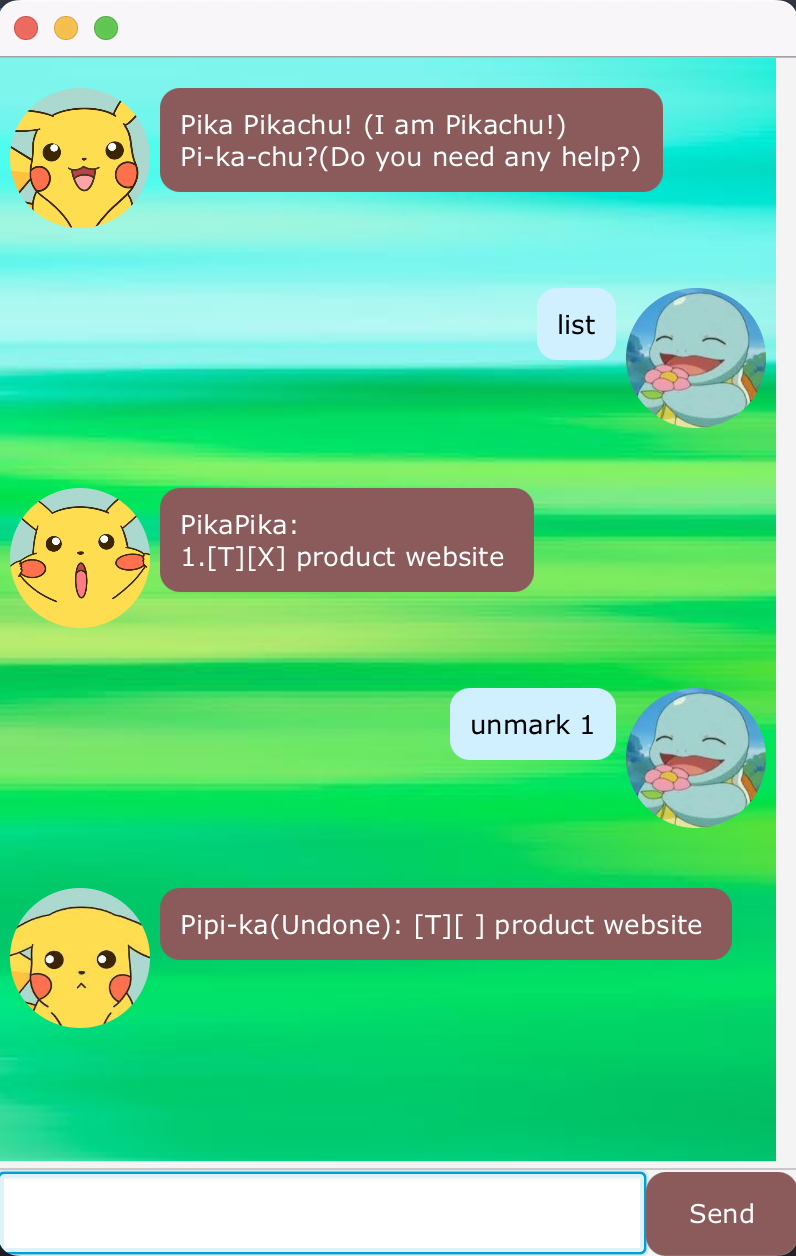
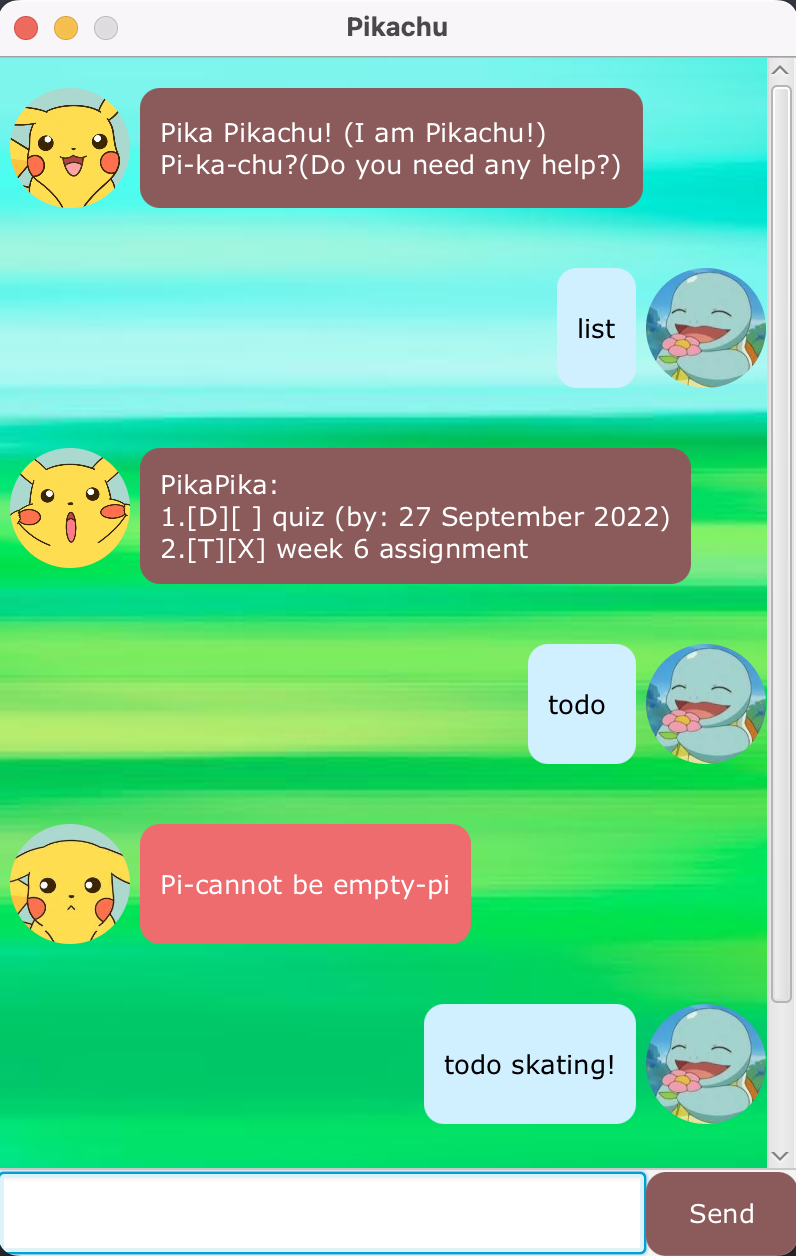
fix bugs and modify GUI

diff --git a/src/main/java/pikachu/command/AddCommand.java b/src/main/java/pikachu/command/AddCommand.java
@@ -47,7 +47,7 @@ public class AddCommand extends Command {
                 LocalDate date = LocalDate.parse(temp2[1]);
                 Deadline newDdl = new Deadline(temp2[0], date);
                 if (isDuplicate(newDdl, taskList)) {
-                    return "Duplicate task pi!";
+                    throw new PikachuException("Duplicate task pi!");
                 }
                 tasks.getTaskList().add(newDdl);
 
@@ -57,7 +57,7 @@ public class AddCommand extends Command {
                 tempStr += "Pikaaaaa: " + tasks.getTaskList().size()
                         + (tasks.getTaskList().size() > 1 ? " tasks" : " task");
             } catch (Exception e) {
-                throw new PikachuException("Need valid date format(yyyy-mm-dd) Pikaaaa");
+                throw new PikachuException("Need valid date format(yyyy-mm-dd) OR Duplicate task Pikaaaa");
             }
         } else if (isValidTodo) { //add as tasks
             Todo newTodo = new Todo(input.substring(5));
@@ -95,20 +95,19 @@ public class AddCommand extends Command {
     }
 
     /**
+     * Returns PikaChu's emotion after receiving the task.
+     * @return OK.
+     */
+    public PikachuEmotion getEmotion() {
+        return PikachuEmotion.OK;
+    }
+
+    /**
      * Returns whether this function performs an exit action on the task manager.
      * @return false, do not exit.
      */
     public boolean isExit() {
         return false;
-    }
-
-    /**
-     * Returns PikaChu's emotion after receiving the task.
-     * @return OK.
-     */
-    @Override
-    public PikachuEmotion getEmotion() {
-        return PikachuEmotion.OK;
     }
 
     /**

diff --git a/src/main/java/pikachu/command/DeleteCommand.java b/src/main/java/pikachu/command/DeleteCommand.java
@@ -29,14 +29,18 @@ public class DeleteCommand extends Command {
      * @return Pikachu's reply.
      * @throws PikachuException If invalid format or the index of task out of range.
      */
+
     public String execute(TaskList tasks, Ui ui, Storage storage) throws PikachuException {
         boolean isValidNumber = Pikachu.isNumeric(input.substring(7));
-        boolean isWithinRange = Integer.parseInt(input.substring(7)) <= tasks.getTaskList().size()
-                && Integer.parseInt(input.substring(7)) > 0;
-        assert input.startsWith("delete ");
         if (!isValidNumber) {
             throw new PikachuException("Pi-must be numbers behind-pi!");
-        } else if (!isWithinRange) {
+        }
+        boolean isWithinRange = Integer.parseInt(input.substring(7)) <= tasks.getTaskList().size()
+                && Integer.parseInt(input.substring(7)) > 0;
+
+        assert input.startsWith("delete ");
+
+        if (!isWithinRange) {
             throw new PikachuException("Pi-not within range-pi!");
         } else {
             int temp = Integer.parseInt(input.substring(7));
@@ -52,7 +56,6 @@ public class DeleteCommand extends Command {
      * Returns PikaChu's emotion after receiving the task.
      * @return OK.
      */
-    @Override
     public PikachuEmotion getEmotion() {
         return PikachuEmotion.OK;
     }

diff --git a/src/main/java/pikachu/Pikachu.java b/src/main/java/pikachu/Pikachu.java
@@ -29,20 +29,7 @@ public class Pikachu extends Application {
     private PikachuEmotion emotion;
 
     private boolean isExit = false;
-
-    /**
-     * Initialises Pikachu bot.
-     */
-    public Pikachu(String filePath) {
-        ui = new Ui();
-        storage = new Storage(filePath);
-        try {
-            tasks = new TaskList(storage.load());
-        } catch (Exception e) {
-            ui.showLoadingError();
-            tasks = new TaskList();
-        }
-    }
+    private boolean isValidMessage = true;
 
     /**
      * Initialise Pikachu
@@ -73,16 +60,23 @@ public class Pikachu extends Application {
     String getResponse(String input) {
         try {
             Command c = Parser.parse(input);
-            emotion = c.getEmotion();
             isExit = c.isExit();
+            emotion = c.getEmotion();
+            isValidMessage = true;
             return c.execute(tasks, ui, storage);
         } catch (PikachuException e) {
+            emotion = PikachuEmotion.SAD;
+            isValidMessage = false;
             return e.getMessage();
         }
     }
 
     PikachuEmotion getEmotion() {
         return emotion;
+    }
+
+    boolean getisValid() {
+        return isValidMessage;
     }
 
     /**

diff --git a/src/main/java/pikachu/command/UnmarkCommand.java b/src/main/java/pikachu/command/UnmarkCommand.java
@@ -31,12 +31,13 @@ public class UnmarkCommand extends Command {
      */
     public String execute(TaskList tasks, Ui ui, Storage storage) throws PikachuException {
         boolean isValidNumber = Pikachu.isNumeric(input.substring(7));
+        if (!isValidNumber) {
+            throw new PikachuException("Pi-must be numbers behind-pi!");
+        }
         boolean isWithinRange = Integer.parseInt(input.substring(7)) <= tasks.getTaskList().size()
                 && Integer.parseInt(input.substring(7)) > 0;
         assert input.startsWith("unmark ");
-        if (!isValidNumber) {
-            throw new PikachuException("Pi-must be numbers behind-pi!");
-        } else if (!isWithinRange) {
+        if (!isWithinRange) {
             throw new PikachuException("Pi-not within range-pi!");
         } else {
             int temp = Integer.parseInt(input.substring(7));
@@ -53,7 +54,7 @@ public class UnmarkCommand extends Command {
      */
     @Override
     public PikachuEmotion getEmotion() {
-        return PikachuEmotion.SAD;
+        return PikachuEmotion.A_BIT_HAPPY;
     }
 
     /**

diff --git a/src/main/java/pikachu/command/MarkCommand.java b/src/main/java/pikachu/command/MarkCommand.java
@@ -30,13 +30,15 @@ public class MarkCommand extends Command {
      * @throws PikachuException If invalid format or out of range of the task index.
      */
     public String execute(TaskList tasks, Ui ui, Storage storage) throws PikachuException {
-        boolean isValidNumber = Pikachu.isNumeric(input.substring(5));
-        boolean isWithinRange = Integer.parseInt(input.substring(5)) <= tasks.getTaskList().size()
-                && Integer.parseInt(input.substring(5)) > 0;
         assert input.startsWith("mark ");
+
+        boolean isValidNumber = Pikachu.isNumeric(input.substring(5));
         if (!isValidNumber) {
             throw new PikachuException("Pi-must be numbers behind-pi!");
-        } else if (!isWithinRange) {
+        }
+        boolean isWithinRange = Integer.parseInt(input.substring(5)) <= tasks.getTaskList().size()
+                && Integer.parseInt(input.substring(5)) > 0;
+        if (!isWithinRange) {
             throw new PikachuException("Pi-not within range-pi!");
         } else {
             int temp = Integer.parseInt(input.substring(5));

diff --git a/src/main/java/pikachu/MainWindow.java b/src/main/java/pikachu/MainWindow.java
@@ -57,7 +57,7 @@ public class MainWindow extends AnchorPane {
 
     public void setPikachu(Pikachu d) {
         pikachu = d;
-        dialogContainer.getChildren().add(DialogBox.getPikachuDialog(pikachu.sayHi(), pikachuImage));
+        dialogContainer.getChildren().add(DialogBox.getPikachuDialog(pikachu.sayHi(), pikachuImage, true));
     }
 
     public void setPikachuImage(PikachuEmotion emotion) {
@@ -100,10 +100,14 @@ public class MainWindow extends AnchorPane {
         String input = userInput.getText();
         String response = pikachu.getResponse(input);
         PikachuEmotion emotion = pikachu.getEmotion();
+        boolean isValidMessage = pikachu.getisValid();;
         this.setPikachuImage(emotion);
+        if (!isValidMessage) {
+
+        }
         dialogContainer.getChildren().addAll(
                 DialogBox.getUserDialog(input, userImage),
-                DialogBox.getPikachuDialog(response, pikachuImage)
+                DialogBox.getPikachuDialog(response, pikachuImage, isValidMessage)
         );
         userInput.clear();
     }

diff --git a/src/main/java/pikachu/command/FindCommand.java b/src/main/java/pikachu/command/FindCommand.java
@@ -4,6 +4,7 @@ import java.util.ArrayList;
 import java.util.List;
 
 import pikachu.PikachuEmotion;
+import pikachu.PikachuException;
 import pikachu.Storage;
 import pikachu.TaskList;
 import pikachu.Ui;
@@ -28,7 +29,7 @@ public class FindCommand extends Command {
      * @param storage Storage space with functions that update and take out tasks.
      * @return Pikachu's reply.
      */
-    public String execute(TaskList tasks, Ui ui, Storage storage) {
+    public String execute(TaskList tasks, Ui ui, Storage storage) throws PikachuException {
         assert input.startsWith("find ");
 
         //Initialise variables
@@ -45,7 +46,7 @@ public class FindCommand extends Command {
 
         //Produce output
         if (result.isEmpty()) {
-            return "Pi...cannot find...";
+            throw new PikachuException("Pi...cannot find...");
         } else {
             for (Task task: result) {
                 output.append(result.indexOf(task) + 1).append('.').append(task).append('\n');

diff --git a/src/main/java/pikachu/DialogBox.java b/src/main/java/pikachu/DialogBox.java
@@ -61,10 +61,15 @@ public class DialogBox extends HBox {
         return db;
     }
 
-    public static DialogBox getPikachuDialog(String text, Image img) {
+    public static DialogBox getPikachuDialog(String text, Image img, boolean isValidMessage) {
         var db = new DialogBox(text, img);
         db.flip();
-        db.dialog.setStyle("-fx-background-color: #8B5B5B; -fx-text-fill: white; -fx-background-radius: 10;");
+        if (isValidMessage) {
+            db.dialog.setStyle("-fx-background-color: #8B5B5B; -fx-text-fill: white; -fx-background-radius: 10;");
+        } else {
+            db.dialog.setStyle("-fx-background-color: #ee6b6e; -fx-text-fill: white; -fx-background-radius: 10;");
+        }
+
         return db;
     }
 }

diff --git a/src/main/java/pikachu/Main.java b/src/main/java/pikachu/Main.java
@@ -22,6 +22,8 @@ public class Main extends Application {
             AnchorPane ap = fxmlLoader.load();
             Scene scene = new Scene(ap);
             stage.setScene(scene);
+            stage.setResizable(false);
+            stage.setTitle("Pikachu");
             fxmlLoader.<MainWindow>getController().setPikachu(pikachu);
             stage.show();
         } catch (IOException e) {

diff --git a/src/main/java/pikachu/command/Command.java b/src/main/java/pikachu/command/Command.java
@@ -11,6 +11,7 @@ import pikachu.Ui;
  * a command key in by user e.g., <code>unmark 2</code>.
  */
 public abstract class Command {
+
     public abstract String execute(TaskList tasks, Ui ui, Storage storage) throws PikachuException;
 
     public abstract boolean isExit();

diff --git a/src/main/java/pikachu/PikachuEmotion.java b/src/main/java/pikachu/PikachuEmotion.java
@@ -10,5 +10,6 @@ public enum PikachuEmotion {
     OK,
     PLAY,
     SAD,
-    YEA
+    YEA,
+    A_BIT_HAPPY
 }

diff --git a/docs/README.md b/docs/README.md
@@ -3,6 +3,7 @@
 ---
 
 Pikachu Task Manager is an application that aims to help you manage your task better!
+![Photo for Pikachu Chatbot](Ui.png "Pikachu Chatbot")
 
 ## Features 
 
@@ -37,6 +38,7 @@ Shows a message for successful addition.
 Pikapi(added): [T][ ] learn a new trick
 Pikaaaaa: 1 task
 ```
+![Todo Demo](images/todo.png "Todo Demo")
 ---
 ### `event` - Add a event task
 
@@ -50,8 +52,9 @@ Shows a message for successful addition.
 
 ```
 Pikapi(added): [E][ ] student fair (at: UTown)
-Pikaaaaa: 1 task
+Pikaaaaa: 2 tasks
 ```
+![Event Demo](images/event.png "Event Demo")
 ---
 ### `deadline` - Add a deadline task
 
@@ -64,9 +67,10 @@ Expected outcome:
 Shows a message for successful addition.
 
 ```
-Pikapi(added): [D][ ] quiz (by: 10 October 2022)
-Pikaaaaa: 1 task
+Pikapi(added): [D][ ] quiz (by: 27 September 2022)
+Pikaaaaa: 3 tasks
 ```
+![Deadline Demo](images/deadline.png "Deadline Demo")
 ---
 ### `mark` - Set task as done
 
@@ -83,6 +87,7 @@ Expected outcome:
 ```
 Pi-ka(Done): [T][X] learn a new trick
 ```
+![Mark Demo](images/mark.png "Mark Demo")
 ---
 ### `unmark` - Set task as undone
 
@@ -99,6 +104,7 @@ Expected outcome:
 ```
 Pi-ka(Done): [T][ ] learn a new trick
 ```
+![Unmark Demo](images/unmark.png "Unmark Demo")
 ---
 ### `delete` - Delete a task
 
@@ -114,8 +120,9 @@ Expected outcome:
 
 ```
 Pi-ka(Removed): [T][ ] learn a new trick
-Pikaaaaa: 0 task
+Pikaaaaa: 2 tasks
 ```
+![Delete Demo](images/delete.png "Delete Demo")
 ---
 ### `list` - Show status of all tasks
 
@@ -127,10 +134,10 @@ Expected outcome:
 
 ```
 PikaPika:
-1.[T][ ] learn a new trick
-2.[E][X] student fair (at: UTown)
-3.[D][ ] quiz (by: 10 October 2022)
+1.[E][ ] student fair (at: UTown)
+2.[D][ ] quiz (by: 10 October 2022)
 ```
+![List Demo](images/list.png "List Demo")
 ---
 ### `find` - Find tasks
 
@@ -145,8 +152,9 @@ Example of usage:
 Expected outcome:
 
 ```
-1.[D][ ] quiz (by: 10 October 2022)
+1.[D][ ] quiz (by: 27 September 2022)
 ```
+![Find Demo](images/find.png "Find Demo")
 ---
 ### `bye` - Exits the program
 
@@ -161,4 +169,5 @@ Pi-ka...(Say some last word to pikachu to comfort it!)
 ```
 Any words typed in after pikachu's replay will successfully exit the program.
 
+![Bye Demo](images/bye.png "Bye Demo")
 ---
